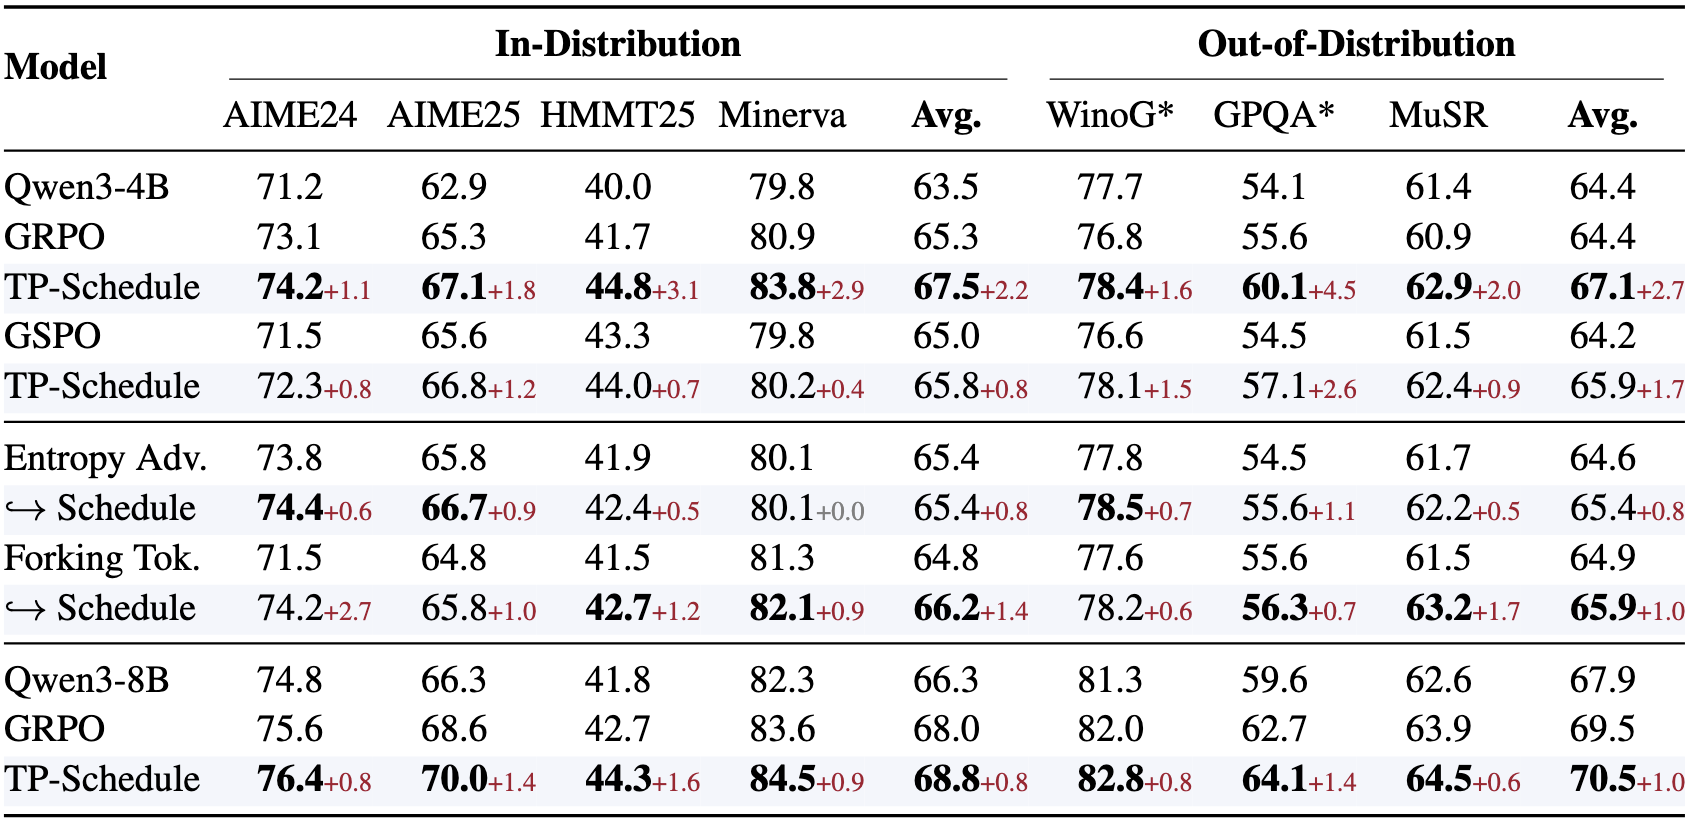
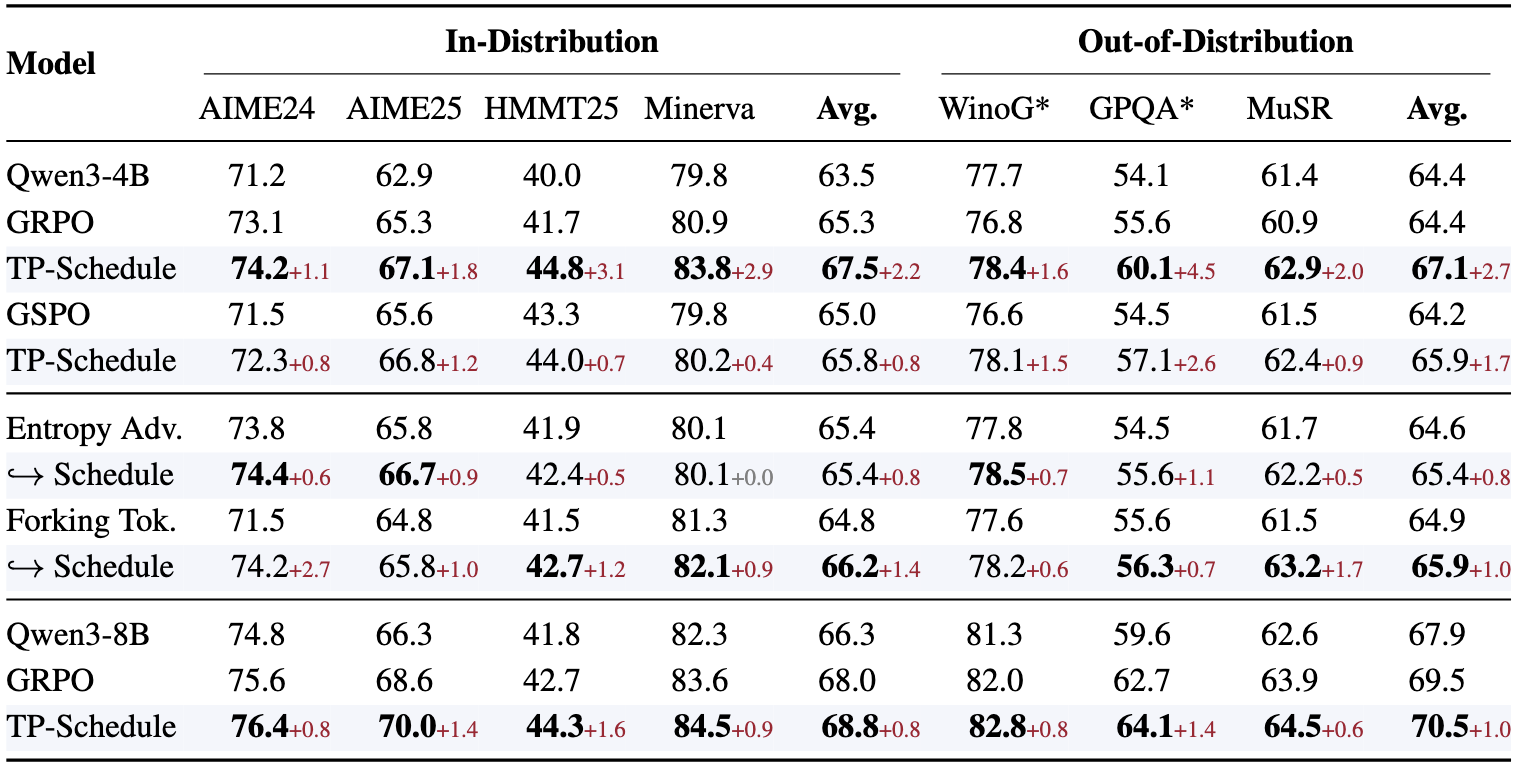
update readme

diff --git a/README.md b/README.md
@@ -13,14 +13,14 @@
 ## 📜 Brief Introduction
 We introduce the temporal schedule of RLVR and show that *when* learning signals are scheduled can be as important as *where* they are allocated across trajectory tokens, and thus extending existing credit allocation approaches with temporal dimension over the course of RLVR optimization. 
 
-💡 **Continuous Reasoning Enhancement.** Temporal schedule of RLVR shows consistent progress in advancing reasoning capabilities over RLVR with stagnant stagnant credit allocation paradigm, including advantage reweighting and sparse token optimization.
+💡 **Continuous Reasoning Enhancement.** Temporal schedule of RLVR shows consistent progress in advancing reasoning capabilities over RLVR with stagnant credit allocation paradigm, including advantage reweighting and sparse token optimization.
 <div align="center"> <img src="assets/VCurve.png" width = 85% /> </div>
 
 🛠️ **Trajectory Percentile Schedule.** We identify that the simple trajectory percentiles (TP-Schedule) provides a natural perspective in distinguishing heterogeneous policy behaviors, and effectively anchoring the policy entropy in optimizaiton, suggesting a promising credit allocation criteria for temporal scheduling.
 <div align="center"> <img src="assets/stat.png" width = 85% /> </div>
 
-📈 **Temporal Scheduling Analysis.** Temporal scheduling of RLVR show consistent
-<div align="center"> <img src="assets/results.png" width = 85% /> </div>
+<!-- 📈 **Temporal Scheduling Analysis.** Temporal scheduling of RLVR has been validated across credit allocation strategies, RLVR algoorithms, and model sizes. 
+<div align="center"> <img src="assets/results.png" width = 85% /> </div> -->
 
 ## 🔧 Environment Set Up
 1. Clone this repository and navigate to the folder: